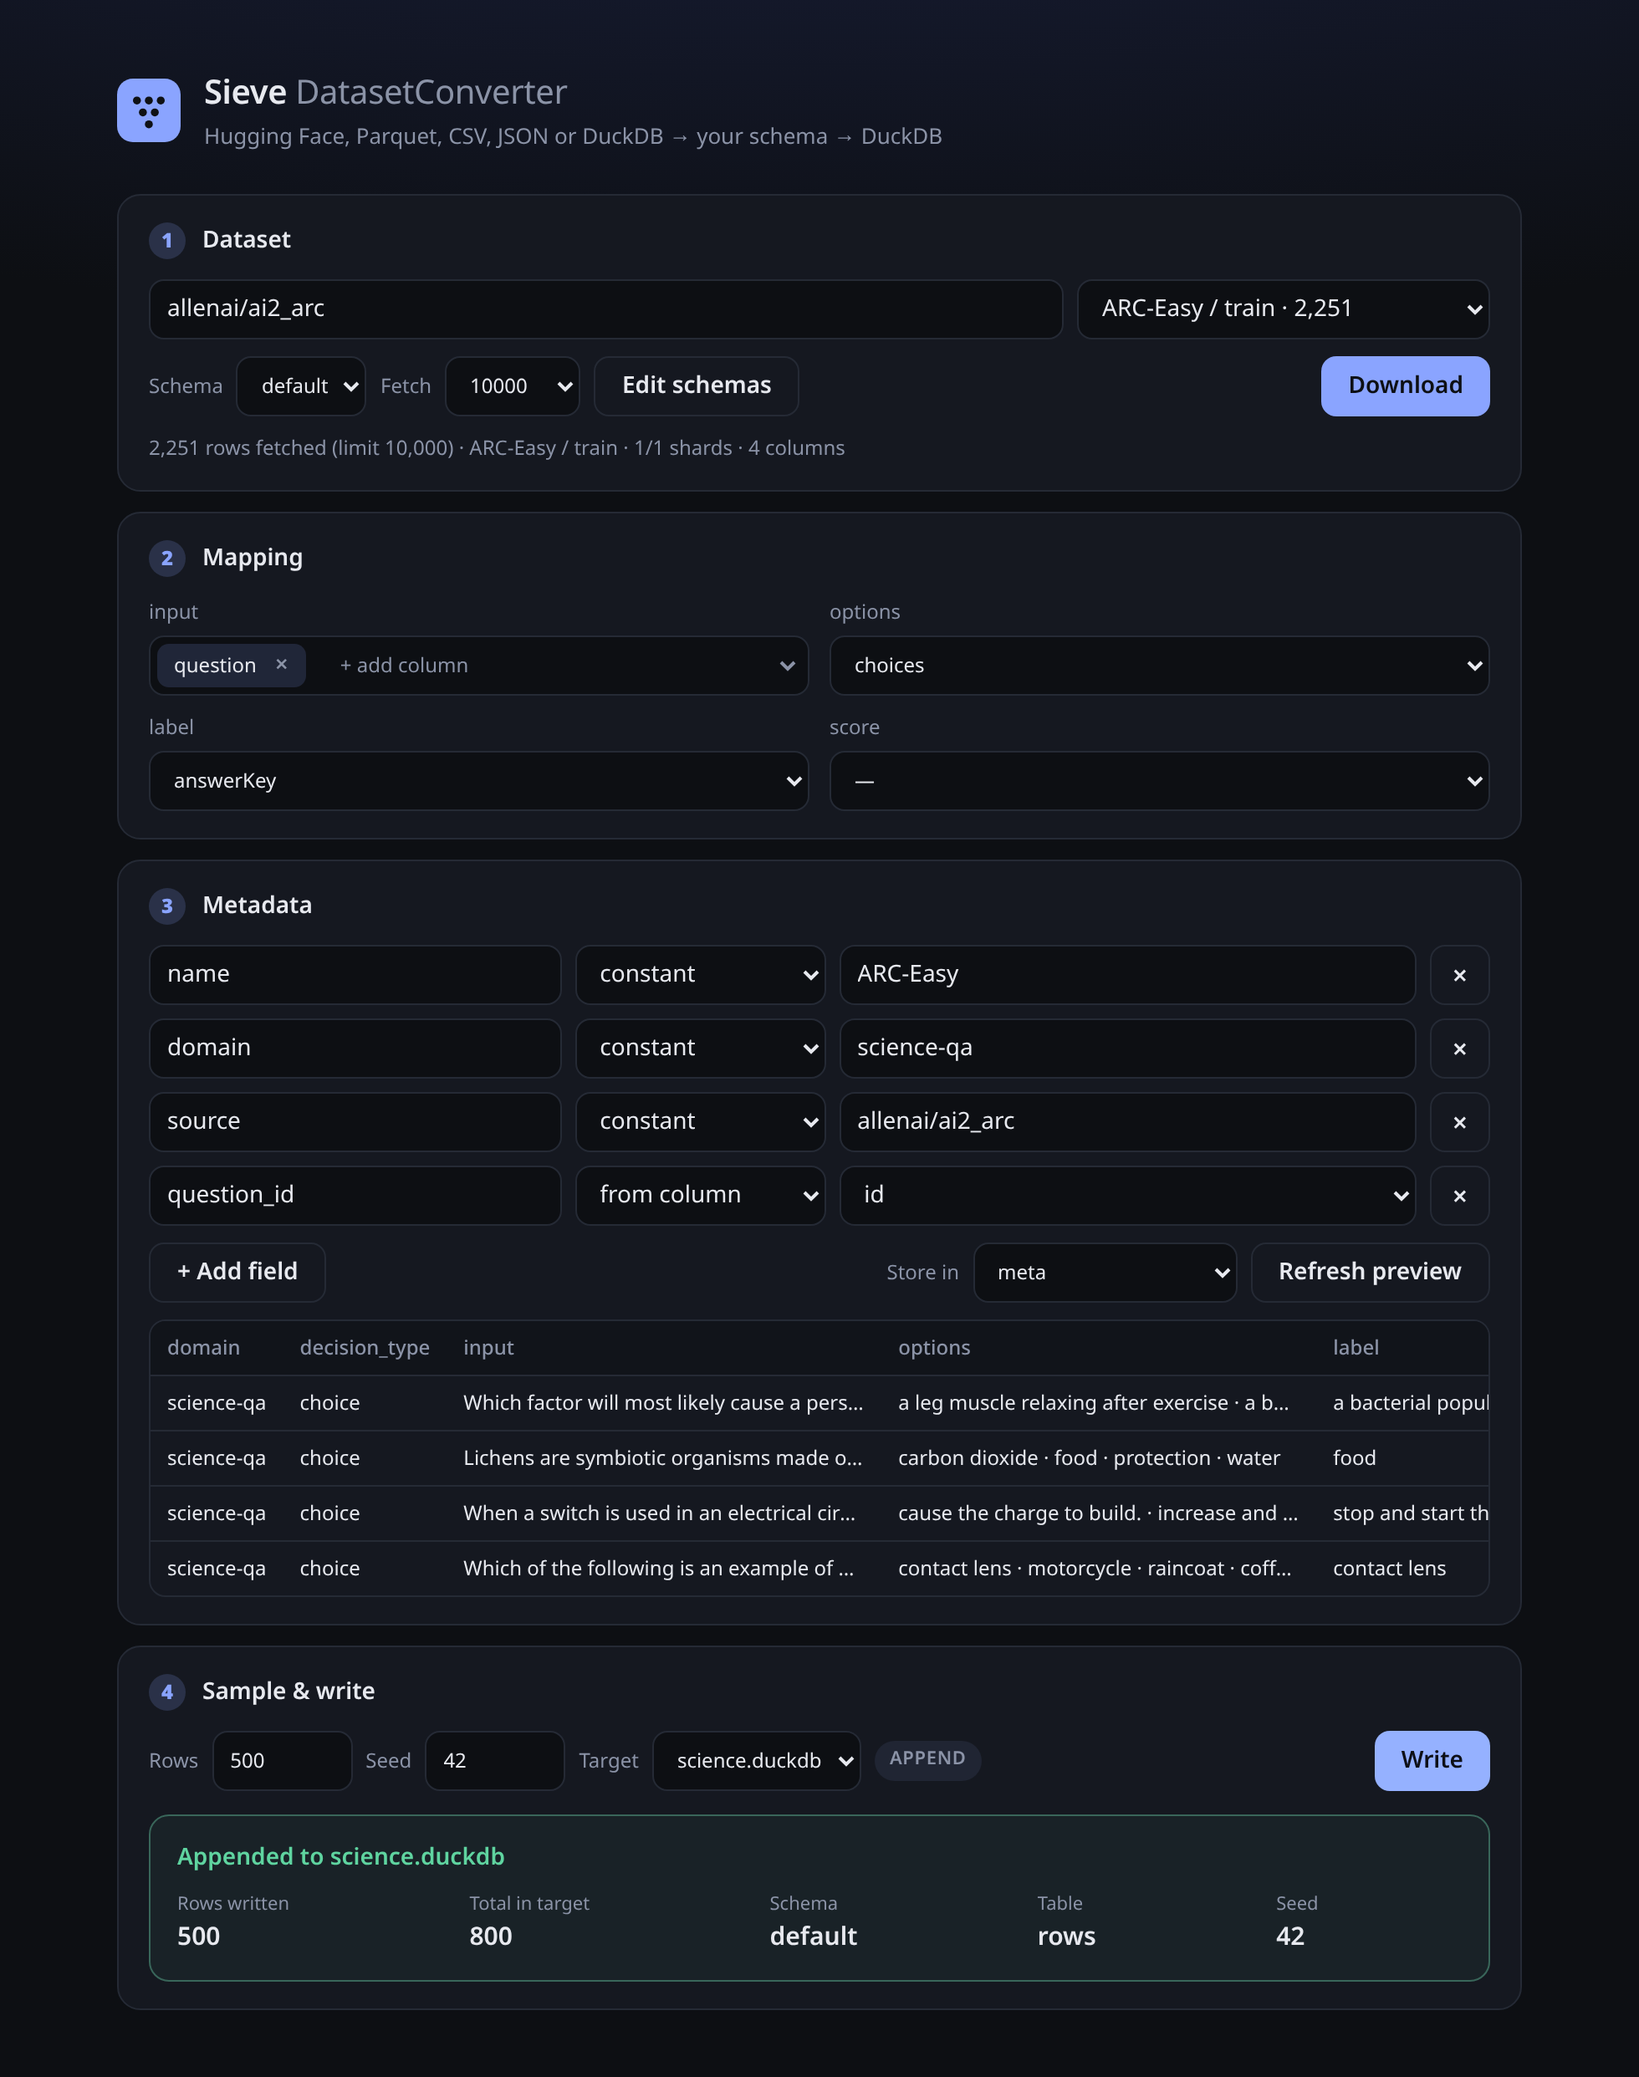
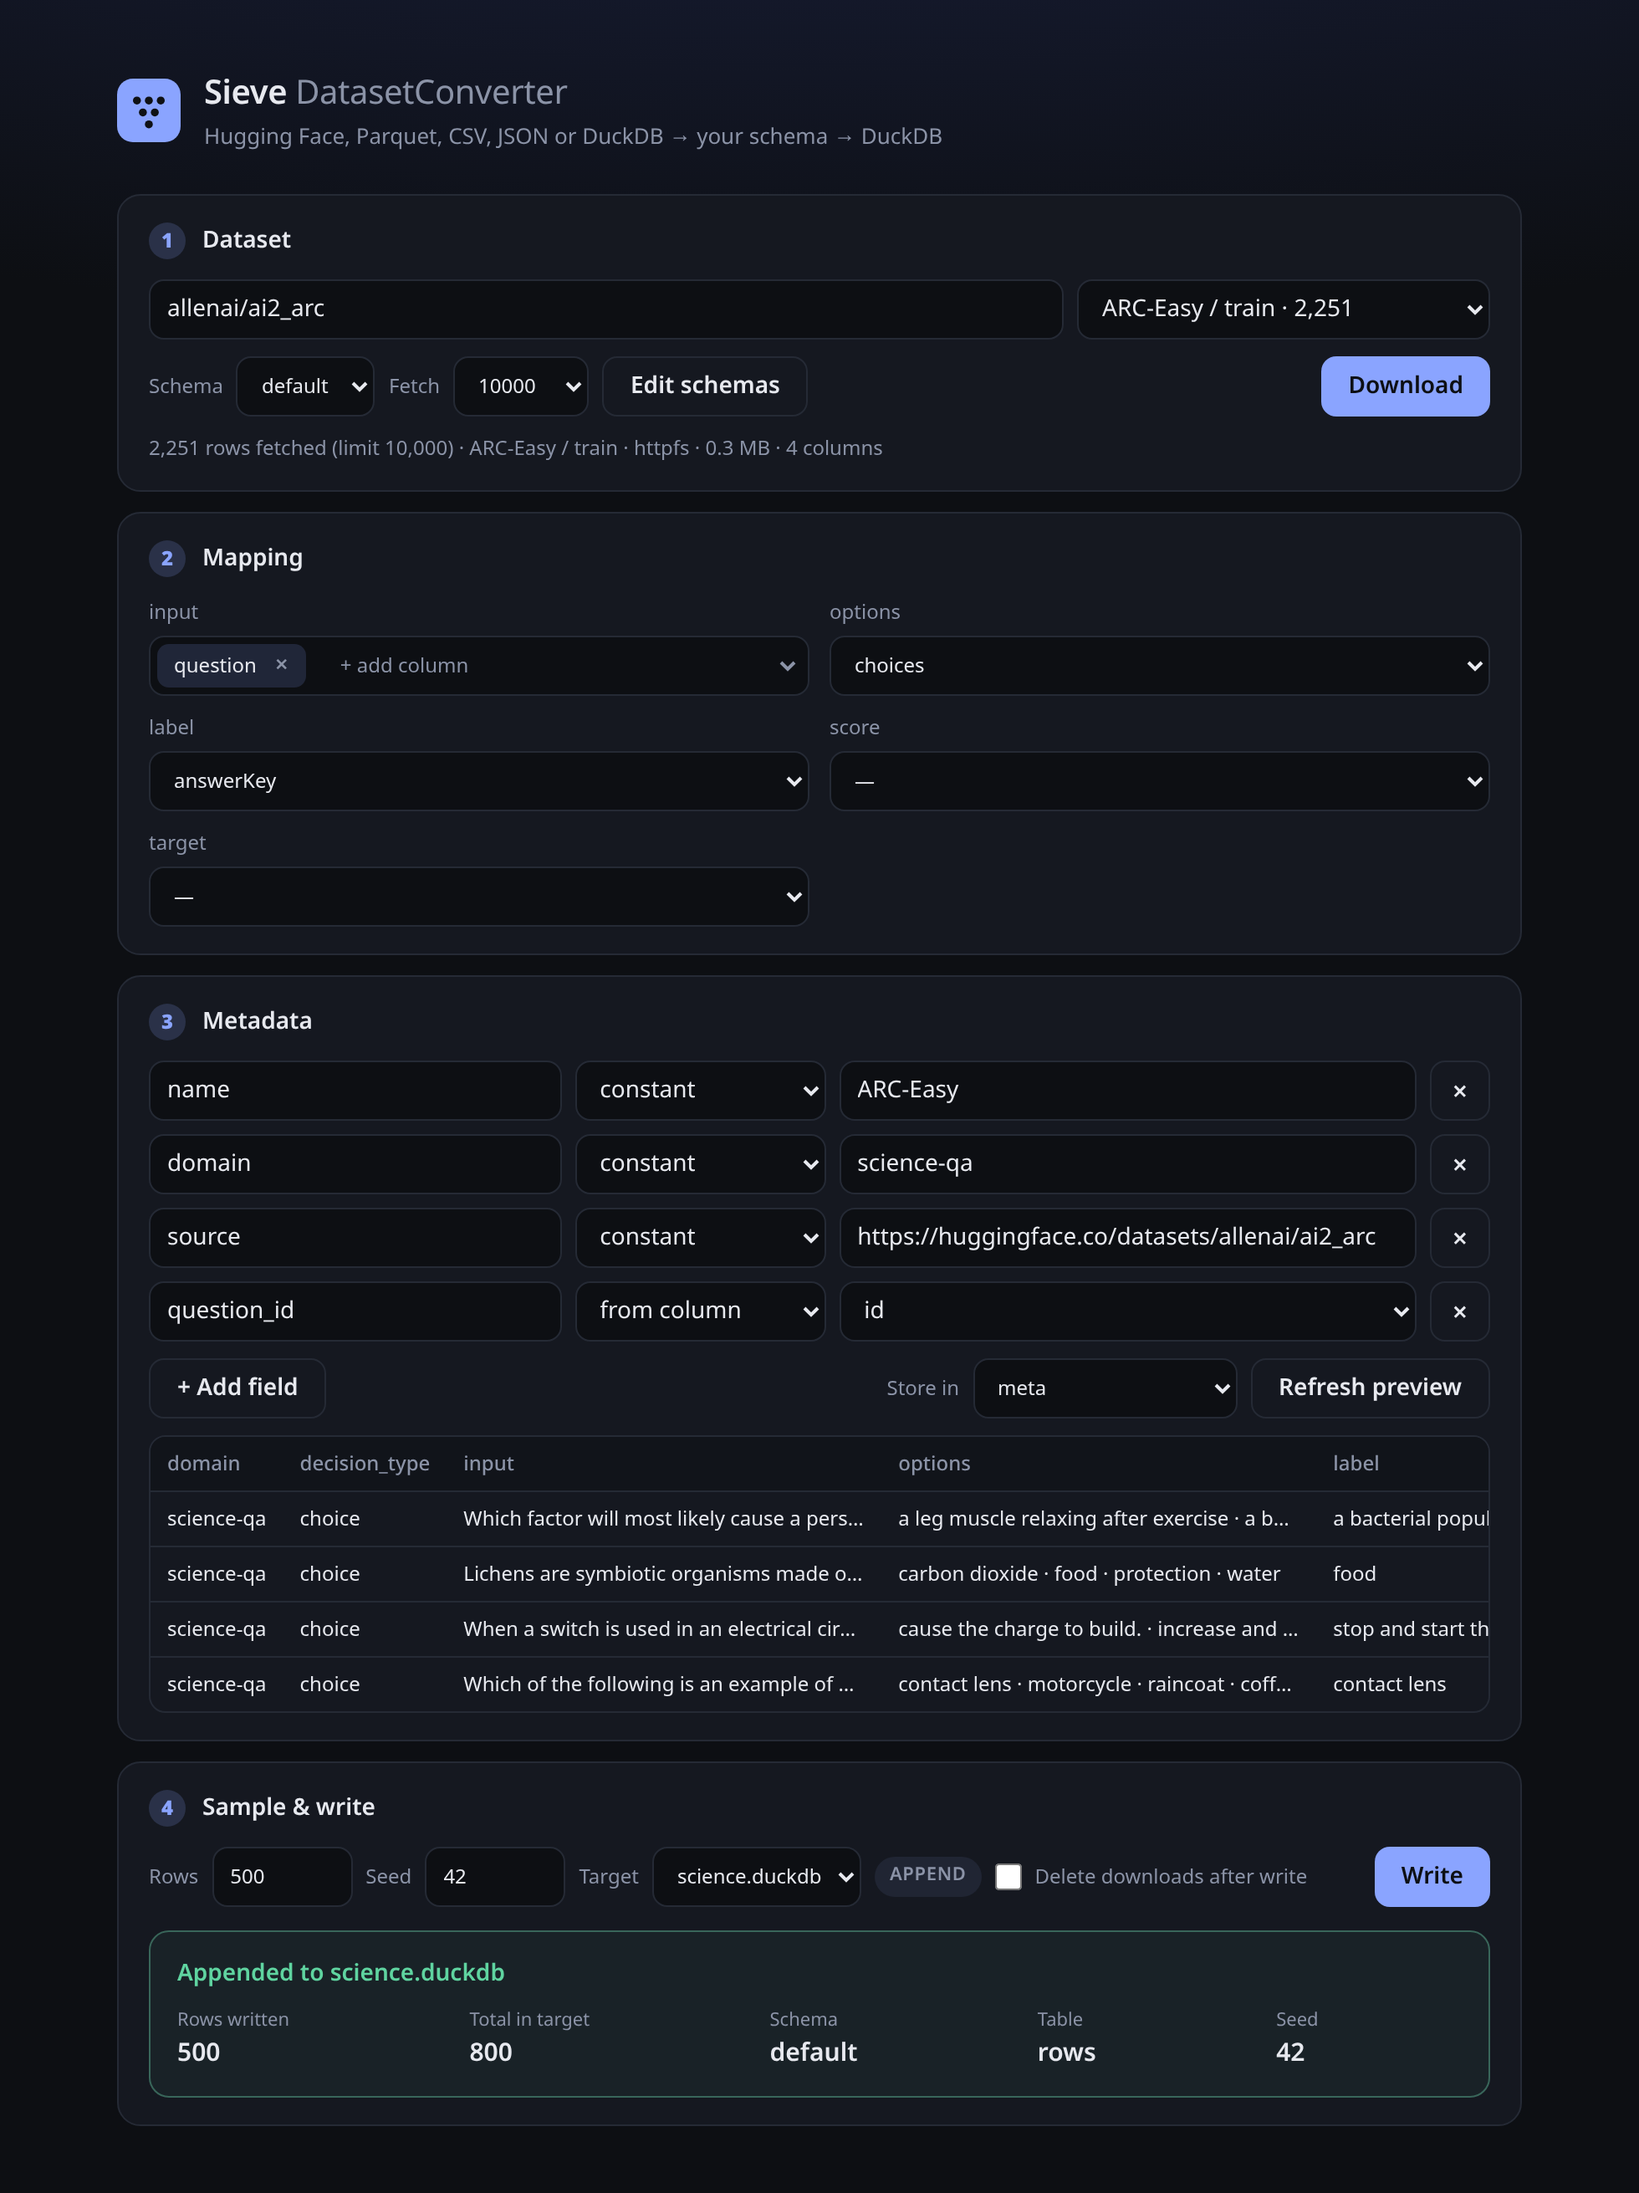
Offline smoke test (npm test); README and MCP docs for the new options; step 4 screenshot

diff --git a/README.md b/README.md
@@ -5,6 +5,7 @@ Pull a dataset from Hugging Face or a Parquet, CSV, JSON, JSONL or DuckDB file, 
 ```bash
 npm install && npm start    # UI at http://localhost:3000 · MCP (streamable HTTP) at /mcp
 npm run mcp:stdio           # MCP over stdio
+npm test                    # offline smoke test
 ```
 Node 20+, no Docker. Env: `PORT` (3000), `DATA_DIR` (`data`: downloads and `.duckdb` targets), `SCHEMAS_DIR` (`schemas`), `HF_TOKEN` (gated or private HF datasets).
 
@@ -12,10 +13,10 @@ Node 20+, no Docker. Env: `PORT` (3000), `DATA_DIR` (`data`: downloads and `.duc
 **1 · Dataset**: type `org/name` and the config/split dropdown fills from the Hugging Face API. You can also paste a file URL or a local path. Choose a schema and how many rows to fetch (default 10,000, or `all`). With a limit, Hugging Face data is read remotely: DuckDB `httpfs` range-reads only the row groups it needs and stops across shards once the limit is reached (1,000 rows of a 41-shard Wikipedia split: ~14 MB instead of a 420 MB shard). Small limits fall back to the datasets-server `/rows` API, and `all` (or a failed remote read) downloads whole shards. A limit takes the **first** N rows of the split, not a random subset; the seeded sample in step 4 is drawn from those rows.
 ![](docs/screenshots/1-dataset.png)
 
-**2 · Mapping**: each schema field gets source columns suggested from its name and `aliases`. `join` fields take several columns, shown as chips.
+**2 · Mapping**: each schema field gets source columns suggested from its name and `aliases`. `join` fields take several columns, shown as chips. Over MCP a mapping entry can also be a nested path: `a.b[0].c`, or `completions[*].response` for a list of values.
 ![](docs/screenshots/2-mapping.png)
 
-**3 · Metadata**: a key/value list. Each value is either a constant or copied per row from a source column. Choose the schema column it goes into (default `meta`). The table previews converted rows.
+**3 · Metadata**: a key/value list. Each value is either a constant or copied per row from a source column (a nested path or `source_row` works too). Constants keep JSON types: `3`, `true` and `[1,2]` are stored as a number, a boolean and a list. Choose the schema column it goes into (default `meta`). When a value is cut by `max_chars`/`max_items`, the row's metadata gets `truncated: true` and `truncated_fields`. The table previews converted rows.
 ![](docs/screenshots/3-metadata.png)
 
 **4 · Sample & write**: a seeded sample (500 rows, seed 42) goes into an existing `.duckdb` file (append) or a new one (create). Files are listed from `DATA_DIR`. Tick *Delete downloads after write* to remove the dataset's files from `data/downloads` once the write succeeds.
@@ -27,7 +28,7 @@ Node 20+, no Docker. Env: `PORT` (3000), `DATA_DIR` (`data`: downloads and `.duc
 ## Sources
 | source | how |
 |---|---|
-| Hugging Face | `org/name`, `https://huggingface.co/datasets/org/name`, plus optional `config` and `split` (default: `train`). Read via the datasets-server Parquet export |
+| Hugging Face | `org/name`, `https://huggingface.co/datasets/org/name`, plus optional `config` and `split` (default: `train`). Shards come from the datasets-server Parquet export, or the Hub's `refs/convert/parquet` branch when that fails. ClassLabel names are read from the Parquet metadata. Re-importing a file from `data/downloads` keeps the Hugging Face repo as its `url`/`origin` |
 | Parquet / CSV / TSV / JSON / JSONL | URL or local path, detected by extension (or pass `format`) |
 | DuckDB | `.duckdb` / `.db` URL or local path, attached read-only. `tables` lists what's inside; choose one with `table` (default: the first) |
 
@@ -47,25 +48,34 @@ Schemas are JSON files in `schemas/`. Each one writes to its own table. `example
   - `constant`: uses `value`
   - `metadata`: the metadata entry whose key is `value`
   - `meta`: the default column for the per-row metadata object
-  - `label_to_option`: turns an index, a letter or an HF `{label:[…]}` key into option text from `option_field`
+  - `label_to_option`: turns an index, a letter, a ClassLabel id or an HF `{label:[…]}` key into option text from `option_field`. A list of labels (multi-label) becomes a list of option texts. With no options, ClassLabel names are used as the options
+  - `label_to_distribution`: writes `{"probabilities": {id: p}}` over the options of `option_field`. A label gives a one-hot vector, and a list of labels is spread evenly. A numeric value is split between the two nearest numeric options, or, with two options and a value in [0, 1], gives the second option probability p. Several numeric columns (one per option) are normalised. Without its own columns it reads the source of `label_field` (default: the `label_to_option` field)
+  - `options_dict`: `{id: option}` for `option_field`
+  - `shuffle`: a seeded shuffle of its columns (e.g. `["chosen", "rejected"]`) or of one list column. The first item is the gold one, and its index after shuffling goes to `gold_field` (or `meta.gold_index`)
+  - option ids are the option texts; set `"ids": "index"` on `label_to_distribution`/`options_dict` for `"0"`, `"1"`, …
 - **limits and rules**: `max_chars`, `max_items`, `item_max_chars`, `required` (rows missing it are skipped), `enum`, `default`
 
-The built-in `default` schema holds decision rows: `domain`, `decision_type` (`choice` | `noul` | `score`), `input` (≤ 4000 chars), `options` (≤ 16 × 200 chars), `label` (≤ 500 chars), `score` and `meta`.
+The built-in `default` schema holds decision rows: `domain`, `decision_type` (`choice` | `noul` | `score`), `input` (≤ 4000 chars), `options` (≤ 16 × 200 chars), `label` (≤ 500 chars), `score`, `target` (`{probabilities}` built from the label) and `meta`.
 
 ## DuckDB layout
 **`<schema.table>`** (e.g. `rows`): one row per sampled record
 | column | type | |
 |---|---|---|
-| id | VARCHAR PK | `<dataset_id>-<source_row>` |
+| id | VARCHAR PK | `<dataset_id>-<source_row>` (`<dataset_id>-<write_key>-<source_row>` with a write key) |
 | dataset_id | VARCHAR | |
+| write_key | VARCHAR | `''`, or the `write_key` / split tag of the write |
 | source_row | BIGINT | row index in the source |
 | *schema fields* | per `type` | `text`→VARCHAR, `number`→DOUBLE, `integer`→BIGINT, `boolean`→BOOLEAN, `list`/`json`→JSON |
 | *metadata column* (e.g. `meta`) | JSON | `{key: value}` for every metadata entry; column-sourced values differ per row |
 | created_at | TIMESTAMP | |
 
-**`datasets`**: one row per dataset per table: `dataset_id, schema_name, table_name, name, metadata JSON ({entries, column}), url, format, source_rows, rows_written, sample_seed, mapping JSON, written_at`.
+**`datasets`**: one row per dataset, table and write key: `dataset_id, write_key, schema_name, table_name, name, metadata JSON ({entries, column}), url, origin JSON, source_key, format, source_rows, rows_written, sample_seed, filter, mapping JSON, written_at`. `source_key` identifies the source (`hf:org/name/config/split`) for `exclude_same_source`.
 
-Writing the same `dataset_id` again replaces its rows. `create` fails if the file already exists, and `append` fails if it doesn't.
+Writing the same `dataset_id` and `write_key` again replaces those rows. `create` fails if the file already exists, and `append` fails if it doesn't. Files written by older versions are upgraded on the next write: new columns are added and existing rows are kept.
+
+**Sampling**: `convert_and_write` takes a seeded random sample of the fetched rows. `where` filters it first (a DuckDB expression over source columns, e.g. `label >= 0 AND length(text) < 2000`; statements, subqueries and file functions are rejected). To keep samples disjoint:
+- `splits: [{tag, n, metadata?, overrides?}]` cuts one shuffled sample into parts, each written with `write_key = tag`.
+- `exclude_same_source: true` skips source rows already written to the target from the same source, and `exclude_dataset_ids` skips the rows of those dataset ids.
 
 ## MCP tools
 | tool | params |
@@ -76,10 +86,11 @@ Writing the same `dataset_id` again replaces its rows. `create` fails if the fil
 | `hf_splits` | `dataset` → configs/splits with row counts |
 | `list_targets` | – → `.duckdb` files in `DATA_DIR` |
 | `import_dataset` | `url`, `schema="default"`, `config?`, `split?`, `table?` (DuckDB source), `format?`, `limit?` (10000 \| n \| `"all"`; HF reads only the first n rows remotely). Result has `hf.via` (`httpfs` \| `rows-api` \| `download`) and `download_bytes` |
-| `preview` | `dataset_id`, `n?` |
-| `set_metadata` | `dataset_id`, `metadata?: [{key, value} \| {key, column}]`, `target_column?` (null disables), `schema?`, `table?`, `mapping?: {field: [cols]}`, `overrides?: {field: value}` |
-| `convert_and_write` | `dataset_id`, `sample=500`, `seed=42`, `target="datasets.duckdb"`, `mode="append"` \| `"create"`, `cleanup=false` (delete this dataset's downloads after a successful write) |
-| `run_pipeline` | everything above in one call; `mode` defaults to append if the target exists, else create |
+| `preview` | `dataset_id`, `n?`, `where?` |
+| `set_metadata` | `dataset_id`, `metadata?: [{key, value} \| {key, column}]` (column may be a path or `source_row`), `target_column?` (null disables), `schema?`, `table?`, `mapping?: {field: [cols]}`, `overrides?: {field: value}` |
+| `convert_and_write` | `dataset_id`, `sample=500`, `seed=42`, `target="datasets.duckdb"`, `mode="append"` \| `"create"`, `cleanup=false` (delete this dataset's downloads after a successful write), `write_key?`, `metadata?` and `overrides?` (this write only, merged by key), `where?`, `splits?`, `exclude_same_source?`, `exclude_dataset_ids?` |
+| `run_pipeline` | everything above in one call (`metadata` is the dataset metadata); `mode` defaults to append if the target exists, else create |
+| `delete_dataset` | `dataset_id`, `target`, `write_key?` → removes its rows (all write keys, or one) and its `datasets` records |
 | `cleanup_downloads` | `dataset_id?` → deletes that dataset's files in `data/downloads` (all when omitted); returns `files_deleted`, `bytes_freed` |
 | `list_datasets` | – |
 
@@ -89,6 +100,22 @@ Writing the same `dataset_id` again replaces its rows. `create` fails if the fil
   "metadata": [{ "key": "domain", "value": "science-qa" }, { "key": "question_id", "column": "id" }],
   "target_column": "meta", "sample": 500, "target": "science.duckdb", "mode": "create" } }
 ```
+```json
+{ "tool": "convert_and_write", "arguments": {
+  "dataset_id": "1a2b3c4d", "target": "nli.duckdb", "where": "label >= 0",
+  "splits": [{ "tag": "retrieval", "n": 500, "metadata": { "use_case_id": "retrieval_sufficiency_check" } },
+             { "tag": "conflict",  "n": 500, "metadata": { "use_case_id": "evidence_conflict_detection" } }],
+  "cleanup": true } }
+```
+```json
+{ "tool": "save_schema", "arguments": { "schema": { "name": "pairwise", "fields": [
+  { "name": "prompt",  "type": "text" },
+  { "name": "options", "type": "list", "transform": "shuffle", "gold_field": "label" },
+  { "name": "label",   "type": "text", "transform": "label_to_option", "option_field": "options" },
+  { "name": "target",  "type": "json", "transform": "label_to_distribution", "option_field": "options", "ids": "index" },
+  { "name": "meta",    "type": "json", "transform": "meta" } ] } } }
+```
+Map `options` to `["chosen", "rejected"]` (e.g. `Anthropic/hh-rlhf`), and the gold answer lands at a random, seeded position.
 ```json
 { "tool": "import_dataset", "arguments": { "url": "/data/zoo.duckdb", "table": "iris", "limit": "all" } }
 ```
